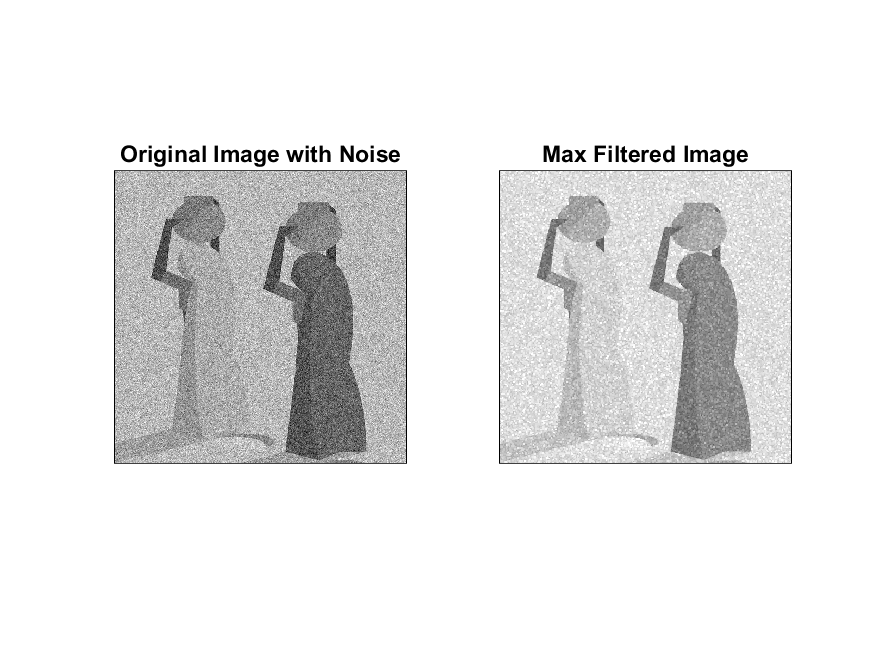
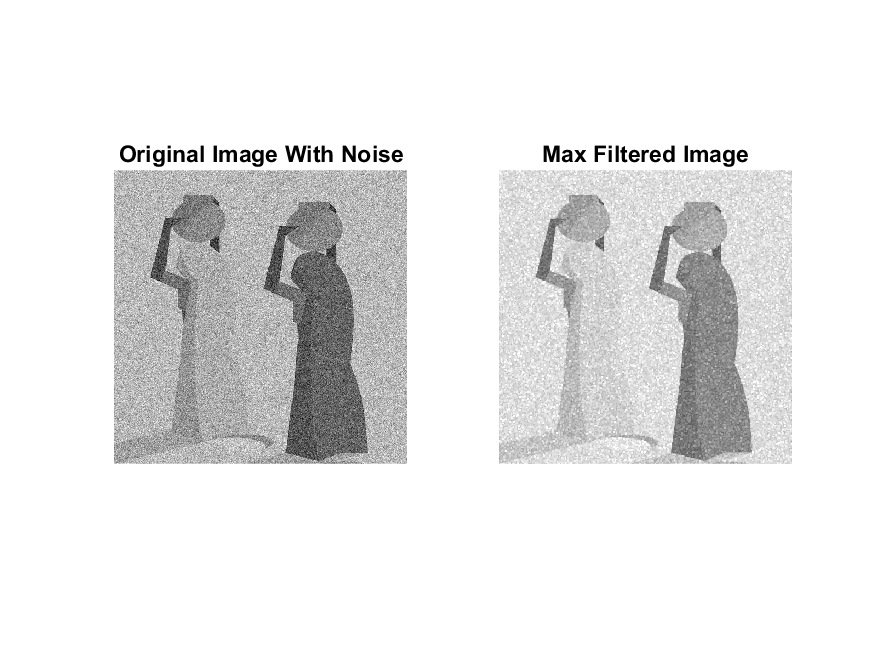
weighted avg filter created, psnr calculated, code cleanup completed

Changed region(s): [[0.1234, 0.2134, 0.4629, 0.7317], [0.5554, 0.2439, 0.9257, 0.7317]]

diff --git a/code/avg_filter_with_zero_padding_with_3x3_mask.m b/code/avg_filter_with_zero_padding_with_3x3_mask.m
@@ -1,37 +1,18 @@
-I = imread('C:\Users\priya\Downloads\test.png');
-%imshow(I);
-size(I);
-grayImage = rgb2gray(I);
-
-%adding noise
-grayImage = imnoise(grayImage,'gaussian');
-
-oldImageSize = size(grayImage);
+[refImage,grayImage,oldImageSize] = preprocess();
 
 %applying padding zero
-newImage = zeros(oldImageSize(1)+4, oldImageSize(2)+4);
-newImage = uint8(newImage);
-mLength = size(newImage);
-k=1;
-l=1;
-for i=1:oldImageSize(1)
-    for j=1:oldImageSize(2)
-        a = grayImage(i,j);
-        newImage(i+2,j+2) = a;
-        %l = l+1;
-    end
-    %k = k+1;
-end
+[newImage,mLength] = zero_padding(oldImageSize, grayImage);
 
 %plotting original gray image with padding
 subplot(1,2,1)
-imshow(newImage)
-title('Original Image with Noise')
+imshow(grayImage)
+title('Original Image With Noise')
 
 %empty matrix for filtered image
-filteredImage = uint8(zeros(oldImageSize(1)+4, oldImageSize(2)+4));
+filteredImage = uint8(zeros(oldImageSize(1), oldImageSize(2)));
 
 %average filter
+k=1;l=1;
 for i=3:oldImageSize(1)+2
     for j=3:oldImageSize(2)+2
         t = [newImage(i-1,j+1),newImage(i,j+1),newImage(i+1,j+1),newImage(i-1,j),newImage(i,j),newImage(i+1,j),newImage(i-1,j-1),newImage(i,j-1),newImage(i+1,j-1)];
@@ -43,11 +24,15 @@ for i=3:oldImageSize(1)+2
             end
 
         avg=total/9;
-        filteredImage(i,j) = (uint8(avg));
-        %l = l+1;
+        filteredImage(k,l) = (uint8(avg));
+        l = l+1;
     end
-    %k = k+1;
+    l=1;
+    k = k+1;
 end
+
+[peaksnr, snr] = psnr(filteredImage, refImage);
+fprintf('\n The Peak-SNR value is %0.4f', peaksnr);
 
 %plotting the filtered image
 subplot(1,2,2)

diff --git a/code/min_filter_with_zero_padding_with_3x3_matrix.m b/code/min_filter_with_zero_padding_with_3x3_matrix.m
@@ -1,46 +1,33 @@
-I = imread('C:\Users\priya\Downloads\test.png');
-%imshow(I);
-size(I);
-grayImage = rgb2gray(I);
-oldImageSize = size(grayImage);
-
-%adding noise
-grayImage = imnoise(grayImage,'gaussian');
+[refImage,grayImage,oldImageSize] = preprocess();
 
 %applying padding zero
-newImage = zeros(oldImageSize(1)+4, oldImageSize(2)+4);
-newImage = uint8(newImage);
-mLength = size(newImage);
-k=1;
-l=1;
-for i=1:oldImageSize(1)
-    for j=1:oldImageSize(2)
-        a = grayImage(i,j);
-        newImage(i+2,j+2) = a;
-        %l = l+1;
-    end
-    %k = k+1;
-end
+[newImage,mLength] = zero_padding(oldImageSize, grayImage);
 
 %plotting original gray image with padding
 subplot(1,2,1)
 imshow(newImage)
-title('Original Image')
+title('Original Image With Noise')
 
 %empty matrix for filtered image
-filteredImage = uint8(zeros(oldImageSize(1)+4, oldImageSize(2)+4));
+filteredImage = uint8(zeros(oldImageSize(1), oldImageSize(2)));
 
+k=1;l=1;
 %average filter
 for i=3:oldImageSize(1)+2
     for j=3:oldImageSize(2)+2
         t = [newImage(i-1,j+1),newImage(i,j+1),newImage(i+1,j+1),newImage(i-1,j),newImage(i,j),newImage(i+1,j),newImage(i-1,j-1),newImage(i,j-1),newImage(i+1,j-1)];
         val=min(t);
         
-        filteredImage(i,j) = (uint8(val));
-        %l = l+1;
+        filteredImage(k,l) = (uint8(val));
+        l = l+1;
     end
-    %k = k+1;
+    l=1;
+    k = k+1;
 end
+
+[peaksnr, snr] = psnr(filteredImage, refImage);
+  
+fprintf('\n The Peak-SNR value is %0.4f', peaksnr);
 
 %plotting the filtered image
 subplot(1,2,2)

diff --git a/code/median_filter_with_zero_padding_with_3x3_matrix.m b/code/median_filter_with_zero_padding_with_3x3_matrix.m
@@ -1,26 +1,7 @@
-I = imread('C:\Users\priya\Downloads\test.png');
-%imshow(I);
-size(I);
-grayImage = rgb2gray(I);
-oldImageSize = size(grayImage);
-
-%adding noise
-grayImage = imnoise(grayImage,'gaussian');
+[refImage,grayImage,oldImageSize] = preprocess();
 
 %applying padding zero
-newImage = zeros(oldImageSize(1)+4, oldImageSize(2)+4);
-newImage = uint8(newImage);
-mLength = size(newImage);
-k=1;
-l=1;
-for i=1:oldImageSize(1)
-    for j=1:oldImageSize(2)
-        a = grayImage(i,j);
-        newImage(i+2,j+2) = a;
-        %l = l+1;
-    end
-    %k = k+1;
-end
+[newImage,mLength] = zero_padding(oldImageSize, grayImage);
 
 %plotting original gray image with padding
 subplot(1,2,1)
@@ -28,19 +9,25 @@ imshow(newImage)
 title('Original Image')
 
 %empty matrix for filtered image
-filteredImage = uint8(zeros(oldImageSize(1)+4, oldImageSize(2)+4));
+filteredImage = uint8(zeros(oldImageSize(1), oldImageSize(2)));
 
+k=1;l=1;
 %median filter
 for i=3:oldImageSize(1)+2
     for j=3:oldImageSize(2)+2
         t = [newImage(i-1,j+1),newImage(i,j+1),newImage(i+1,j+1),newImage(i-1,j),newImage(i,j),newImage(i+1,j),newImage(i-1,j-1),newImage(i,j-1),newImage(i+1,j-1)];
         val=median(t);
         
-        filteredImage(i,j) = (uint8(val));
-        %l = l+1;
+        filteredImage(k,l) = (uint8(val));
+        l = l+1;
     end
-    %k = k+1;
+    k = k+1;
+    l=1;
 end
+
+[peaksnr, snr] = psnr(filteredImage, refImage);
+  
+fprintf('\n The Peak-SNR value is %0.4f', peaksnr);
 
 %plotting the filtered image
 subplot(1,2,2)

diff --git a/code/weighted_avg_filter_with_zero_padding_with_3x3_mask.m b/code/weighted_avg_filter_with_zero_padding_with_3x3_mask.m
@@ -11,15 +11,20 @@ title('Original Image With Noise')
 %empty matrix for filtered image
 filteredImage = uint8(zeros(oldImageSize(1), oldImageSize(2)));
 
+%average filter
 k=1;l=1;
-
-%max filter
 for i=3:oldImageSize(1)+2
     for j=3:oldImageSize(2)+2
-        t = [newImage(i-1,j+1),newImage(i,j+1),newImage(i+1,j+1),newImage(i-1,j),newImage(i,j),newImage(i+1,j),newImage(i-1,j-1),newImage(i,j-1),newImage(i+1,j-1)];
-        val=max(t);
-        
-        filteredImage(k,l) = (uint8(val));
+        t = [newImage(i-1,j+1),2*newImage(i,j+1),newImage(i+1,j+1),2*newImage(i-1,j),4*newImage(i,j),2*newImage(i+1,j),newImage(i-1,j-1),2*newImage(i,j-1),newImage(i+1,j-1)];
+        total = double(0);
+        val=double(0);
+            for index=1:9
+                val = double(t(index));
+                total = double(total + val);
+            end
+
+        avg=total/16;
+        filteredImage(k,l) = (uint8(avg));
         l = l+1;
     end
     l=1;
@@ -27,11 +32,11 @@ for i=3:oldImageSize(1)+2
 end
 
 [peaksnr, snr] = psnr(filteredImage, refImage);
-
 fprintf('\n The Peak-SNR value is %0.4f', peaksnr);
 
 %plotting the filtered image
 subplot(1,2,2)
 imshow(filteredImage)
-title('Max Filtered Image')
-saveas(gcf,'D:\MATLAB PROJECTS\output\max-filter-result.png')
+title('Weighted Average Filtered Image')
+
+saveas(gcf,'D:\MATLAB PROJECTS\output\avg-filter-result.png')

diff --git a/code/zero_padding.m b/code/zero_padding.m
@@ -1,0 +1,16 @@
+function [newImage,mLength] = zero_padding(oldImageSize, grayImage)
+%applying padding zero
+    newImage = zeros(oldImageSize(1)+4, oldImageSize(2)+4);
+    newImage = uint8(newImage);
+    mLength = size(newImage);
+    k=1;
+    l=1;
+    for i=1:oldImageSize(1)
+        for j=1:oldImageSize(2)
+            a = grayImage(i,j);
+            newImage(i+2,j+2) = a;
+        %l = l+1;
+        end
+    %k = k+1;
+    end
+end

diff --git a/code/preprocess.m b/code/preprocess.m
@@ -1,0 +1,12 @@
+function [refImage,grayImage,oldImageSize] = preprocess()
+
+I = imread('D:\MATLAB PROJECTS\data\sample_data.jpg');
+%imshow(I);
+size(I);
+refImage = rgb2gray(I);
+oldImageSize = size(refImage);
+
+%adding noise
+grayImage = imnoise(refImage,'gaussian');
+
+end
